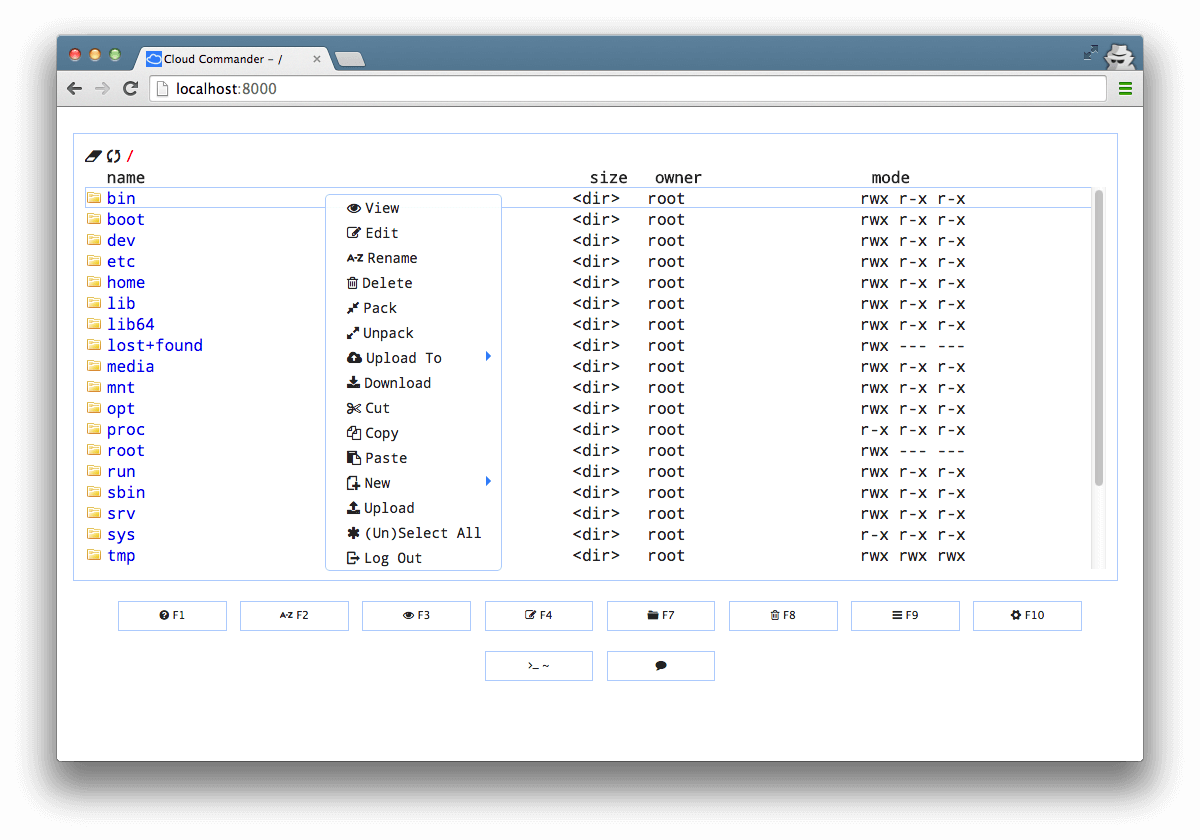
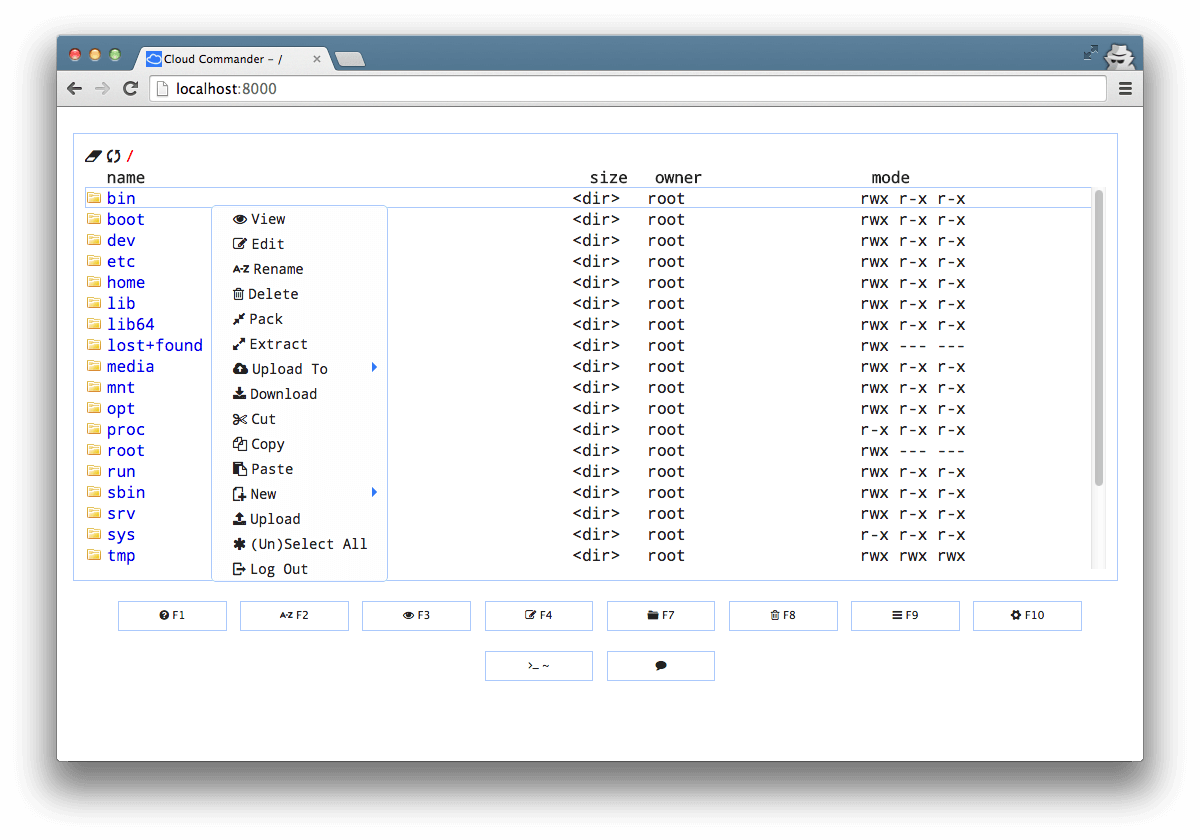
feature(cloudcmd) pack -> extract

Changed region(s): [[0.185, 0.2167, 0.4008, 0.7119], [0.925, 0.0929, 0.9558, 0.1238]]

diff --git a/lib/client/dom.js b/lib/client/dom.js
@@ -478,8 +478,8 @@ var CloudCmd, Util, DOM, CloudFunc, Dialog;
                     Dialog.alert('No files selected!');
                 } else {
                     switch(operation) {
-                    case 'unpack':
-                        op          = RESTful.unpack;
+                    case 'extract':
+                        op          = RESTful.extract;
                         
                         fileFrom   = {
                             from    : path,
@@ -492,7 +492,11 @@ var CloudCmd, Util, DOM, CloudFunc, Dialog;
                     
                     case 'pack':
                         op          = RESTful.pack;
-                        name        += '.tar.gz';
+                        
+                        if (names.lengh > 1)
+                            name    = Info.dir;
+                        else
+                            name    += '.tar.gz';
                         
                         fileFrom    = {
                             from    : dirPath,
@@ -518,7 +522,7 @@ var CloudCmd, Util, DOM, CloudFunc, Dialog;
              * zip file
              *
              */
-            this.pack       = function() {
+            this.pack                       = function() {
                 twopack('pack');
             };
             
@@ -526,8 +530,8 @@ var CloudCmd, Util, DOM, CloudFunc, Dialog;
              * unzip file
              *
              */
-            this.unpack     = function() {
-               twopack('unpack');
+            this.unpack                     = function() {
+               twopack('extract');
             };
             
             /**

diff --git a/lib/server/rest.js b/lib/server/rest.js
@@ -243,11 +243,11 @@
                 pack(files.from, files.to, files.names, callback);
             break;
         
-        case 'unpack':
+        case 'extract':
             if (!files.from)
                 callback(body);
             else
-                unpack(files.from, files.to, callback);
+                extract(files.from, files.to, callback);
                 
             break;
         
@@ -290,7 +290,7 @@
         operation('pack', from, to, names, fn);
     }
     
-    function unpack(from, to, fn) {
+    function extract(from, to, fn) {
         from    = root(from);
                 
         if (to)

diff --git a/lib/client/menu.js b/lib/client/menu.js
@@ -172,7 +172,7 @@ var CloudCmd, Util, DOM, CloudFunc, MenuIO;
                             },
                             'Delete'        : Operation.show.bind(null, 'delete'),
                             'Pack'          : DOM.pack,
-                            'Unpack'        : DOM.unpack,
+                            'Extract'       : DOM.extract,
                             'Upload To'     : {},
                             'Download'      : download,
                             'Cut'           : Buffer.cut,

diff --git a/lib/client/rest.js b/lib/client/rest.js
@@ -104,10 +104,10 @@ var Util, DOM, CloudFunc, CloudCmd;
             });
         };
         
-        this.unpack = function(data, callback) {
+        this.extract = function(data, callback) {
             sendRequest({
                 method      : 'PUT',
-                url         : '/unpack',
+                url         : '/extract',
                 data        : data,
                 callback    : callback
             });

diff --git a/css/icons.css b/css/icons.css
@@ -93,7 +93,7 @@
     content     : '\e813  ';
 }
 
-.icon-unpack::before {
+.icon-extract::before {
     font-family : 'Fontello';
     content     : '\e814  ';
 }

diff --git a/HELP.md b/HELP.md
@@ -229,7 +229,7 @@ Right mouse click button shows context menu with items:
 - Rename
 - Delete
 - Pack
-- Unpack
+- Extract
 - Upload to (Dropbox, Github, GDrive, FilePicker)
 - Download
 - Cut
